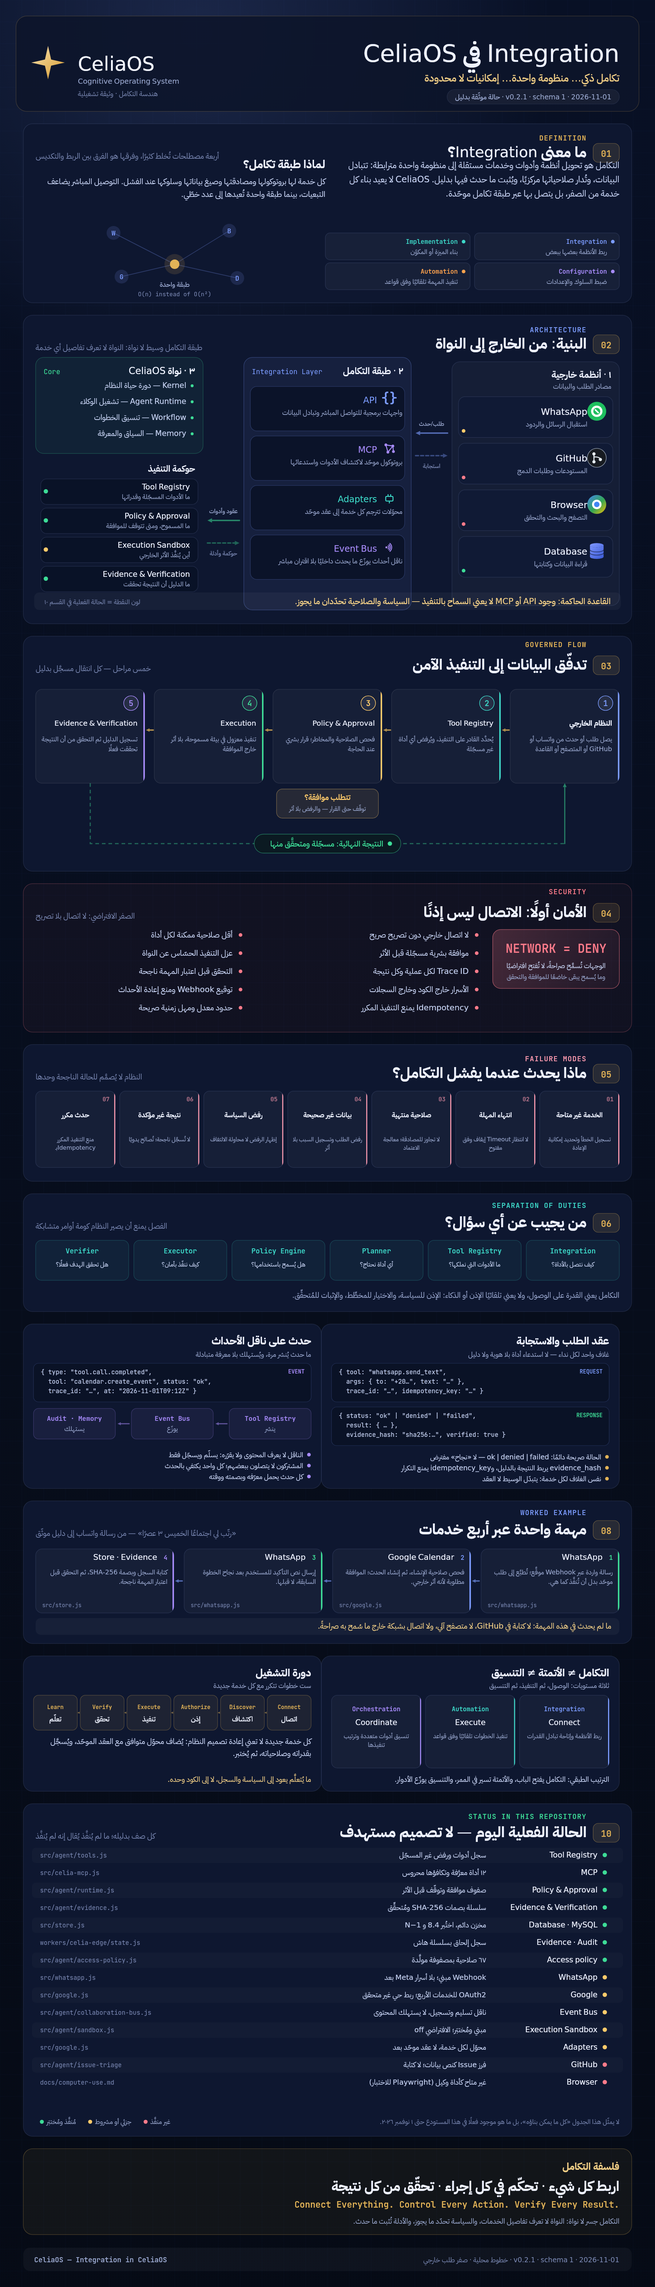
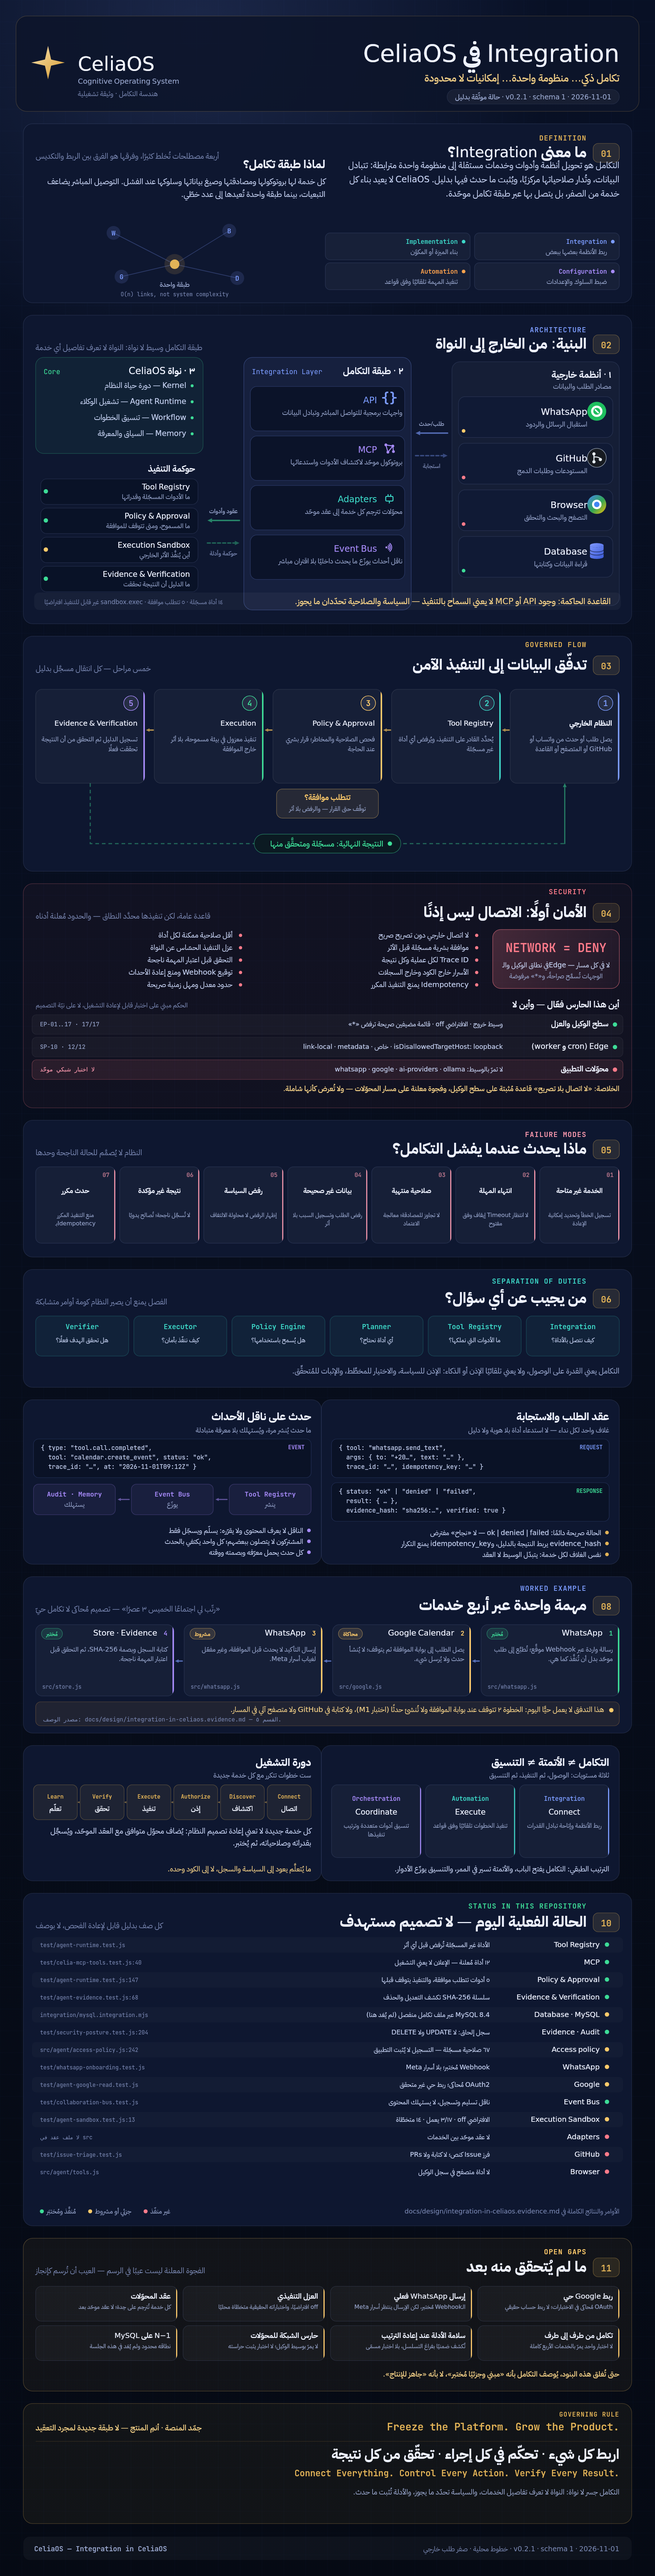
docs(design): تصحيح ادعاءات الإنفوجرافيك وإضافة سجل دليل قابل لإعادة الفحص
مراجعة المالك كشفت أن أرقامًا معروضة كانت تُقرأ كإثبات وهي ليست كذلك.
التصحيحات:

- أدوات الوكيل ١٤ لا ١٧ (createDefaultTools().list())، ومنها ٥ تتطلب موافقة.
- sandbox.exec مسجّل لكنه غير قابل للتنفيذ افتراضيًا، واختباراته الحقيقية ١٤ متخطّاة.
- ٦٧ صلاحية «مسجّلة» لا «مطبَّقة»؛ و١٢ أداة MCP «مُعلنة» لا «متصلة».
- مثال Calendar موسوم: الخطوة ٢ محاكاة تتوقف عند بوابة الموافقة ولا تُنشئ حدثًا.
- NETWORK=DENY صار جدول نطاق: مُثبت على الوكيل (EP-01..17) والـEdge (SP-10)،
  وفجوة معلنة على مسار محوّلات التطبيق.
- قسم جديد OPEN GAPS بثمانية بنود لم تُتحقق، وقاعدة الحكم:
  Freeze the Platform. Grow the Product.

- docs/design/integration-in-celiaos.evidence.md: جدول حالة كل صف بأمر إعادة
  الفحص ونتيجته، وتصحيحات على ادعاءات سابقة، وحدود السجل.

لا تغيير على v0.2.1 ولا صورة ولا سرّ. المولّد حتمي (md5 متطابق).

Changed region(s): [[0.0311, 0.0, 0.9644, 0.9981], [0.28, 0.0624, 0.4978, 0.1248], [0.0622, 0.0, 0.0933, 0.0312]]

diff --git a/docs/design/integration-in-celiaos.evidence.md b/docs/design/integration-in-celiaos.evidence.md
@@ -1,0 +1,120 @@
+# سجل دليل قابل لإعادة الفحص — Integration في CeliaOS
+
+**الملف المصوّر:** [`integration-in-celiaos.png`](integration-in-celiaos.png) · **المولّد:** [`scripts/render-integration-infographic.mjs`](../../scripts/render-integration-infographic.mjs)
+**التاريخ:** 2026-11-01 · **الإصدار المرجعي:** `0.2.1` — لم يُغيَّر شيء في الكود بهذا العمل.
+
+هذا السجل موجود لسبب واحد: كل رقم أو حالة في الإنفوجرافيك يجب أن يكون **قابلًا لإعادة الفحص** بأمر واحد.
+ما لا يمكن إثباته بالأمر يُسجَّل هنا صراحةً كـ«غير متحقق» ولا يُرسم كأنه حقيقة قائمة.
+
+---
+
+## 1 · كيف يُعاد الفحص
+
+```bash
+npm ci                                   # لازمة بعد أي بيئة جديدة
+node --test test/agent-evidence.test.js  # سلسلة الأدلة
+node --test test/agent-egress-proxy.test.js
+node --test test/agent-runtime.test.js
+node --test test/agent-harness.test.js
+node --test test/security-posture.test.js
+node --test test/celia-mcp-tools.test.js
+node --test test/access-policy.test.js
+node --test test/collaboration-bus.test.js
+node --test test/agent-bus-runtime.test.js
+node --test test/agent-google-read.test.js
+node --test test/issue-triage.test.js
+node --test test/whatsapp-onboarding.test.js
+node --test test/agent-sandbox.test.js
+node --test test/agent-sandbox-tool.test.js
+node --test test/agent-store.test.js
+```
+
+عدّاد الأدوات المسجّلة (لا يحتاج أي إعداد):
+
+```bash
+node -e "import('./src/agent/tools.js').then(m=>{const t=m.createDefaultTools({statusProvider:()=>({})});const l=t.list();console.log(l.length, l.filter(x=>x.requiresApproval).length, l.some(x=>/browser/i.test(x.name)), t.has('sandbox.exec')&&t.executable('sandbox.exec'));})"
+```
+
+العدّاد المتوقع: `14 5 false false` أي **١٤ أداة مسجّلة، ٥ منها تتطلب موافقة، لا أداة متصفح، و`sandbox.exec` غير قابل للتنفيذ افتراضيًا**.
+
+---
+
+## 2 · جدول الحالة (القسم ١٠ من الإنفوجرافيك) — دليل كل صف
+
+| الصف | الادعاء المعروض | الدليل القابل لإعادة الفحص | نتيجة التشغيل 2026-11-01 |
+|---|---|---|---|
+| Tool Registry | الأداة غير المسجّلة تُرفض قبل أي أثر | `test/agent-runtime.test.js` — اختبار «an unregistered tool fails the run without side effects» | 16/16 ✅ |
+| MCP | ١٢ أداة مُعلنة | `test/celia-mcp-tools.test.js:40` (`defaultTools.length === 12`) و`test/celia-mcp.test.js:140` | 2/2 ✅ |
+| Policy & Approval | التنفيذ يتوقف عند بوابة الموافقة | `test/agent-runtime.test.js:147` (الأثر الخارجي ⇒ `waiting_approval`، `recorder.calls = 0`) و`test/agent-harness.test.js:219` (REJECTED يمنع التنفيذ) | 16/16 و5/5 ✅ |
+| Evidence & Verification | كشف التعديل وكشف الحذف | `test/agent-evidence.test.js:68` (تعديل صف) و`:83` (حذف مدخل ⇒ فراغ تسلسل) | 6/6 ✅ |
+| Database · MySQL | MySQL 8.4 عبر ملف تكامل مستقل | `integration/mysql.integration.mjs` موثّق في `docs/agent-runtime.md:207`؛ التشغيل عبر `npm run test:mysql` | **لم يُعَد هنا** — يحتاج خادم MySQL 8.4 |
+| Evidence · Audit | سجل إلحاق بلا `UPDATE`/`DELETE` | `test/security-posture.test.js:204` (SP-11) + `test/edge-d1.test.js:132` | 12/12 ✅ |
+| Access policy | ٦٧ صلاحية **مسجّلة** | `src/agent/access-policy.js:242` (`GRANTS = GITHUB_GRANTS + PILLAR_GRANTS + SERVICE_GRANTS` = 19+37+11) | 17/17 ✅ للتسجيل |
+| WhatsApp | Webhook مُختبر بلا أسرار Meta | `test/whatsapp-onboarding.test.js` | 17/17 ✅ |
+| Google | OAuth2 مُحاكى، لا ربط حي | `test/agent-google-read.test.js` | 8/8 ✅ |
+| Event Bus | ناقل تسليم وتسجيل لا يستهلك المحتوى | `test/collaboration-bus.test.js` و`test/agent-bus-runtime.test.js` | 12/12 و12/12 ✅ |
+| Execution Sandbox | مبني، الافتراضي `off`، واختباراته الحقيقية مشروطة | `src/agent/index.js:584` + skip في `test/agent-sandbox.test.js:13` (`CELIA_SANDBOX_INTEGRATION=1`) | 3/17 (14 متخطّاة) ⚠ |
+| Adapters | لا عقد موحّد بين الخدمات | لا يوجد module عقد؛ لكل خدمة مسارها (`src/google.js`, `src/whatsapp.js`, `src/store.js`) | لا دليل — فجوة |
+| GitHub | فرز نصي فقط، لا كتابة ولا PRs | `test/issue-triage.test.js` | 35/35 ✅ |
+| Browser | لا أداة متصفح في سجل الوكيل | عدّاد الأدوات أعلاه ⇒ `browser: false` | ✅ |
+
+---
+
+## 3 · تصحيحات على ادعاءات سابقة
+
+| الادعاء السابق | الحالة الفعلية | المصدر |
+|---|---|---|
+| «١٧ أداة وكيل افتراضية» | **١٤** أداة مسجّلة افتراضيًا (`createDefaultTools().list()`)، منها ٥ تتطلب موافقة | تشغيل العدّاد أعلاه |
+| «`sandbox.exec` مبني ومُختبَر» | التسجيل موجود لكن `executable('sandbox.exec') === false` افتراضيًا؛ واختبارات العزل الحقيقية **١٤ متخطّاة** محليًا | `src/agent/index.js:584`, `test/agent-sandbox.test.js:13` |
+| «٦٧ صلاحية» كإثبات حوكمة | ٦٧ **مسجّلة**؛ التسجيل لا يُثبت التطبيق على كل مسار تنفيذ | `src/agent/access-policy.js:242` |
+| «١٢ أداة MCP» كإثبات تكامل | ١٢ **مُعلنة**؛ لا يعني أنها متصلة بخدمة حية أو مسموح بتشغيلها | `test/celia-mcp-tools.test.js:40` |
+| «N−1 مُختبر» | محدود بأدوات MCP وقراءة schema1، لا corpus كامل لكل عميل | `docs/compatibility-contract.md:20` |
+
+---
+
+## 4 · نطاق `NETWORK = DENY` — أين هو فعّال فعلًا
+
+الادعاء العام «لا اتصال خارجي دون تصريح» صحيح فقط ضمن الحدود التالية:
+
+| المسار | الحارس | الدليل | الحكم |
+|---|---|---|---|
+| سطح الوكيل والعزل | وسيط خروج `CELIA_AGENT_EGRESS`، الافتراضي `off`، وقائمة مضيفين صريحة ترفض `*` | `src/agent/index.js:289` + `test/agent-egress-proxy.test.js` (EP-01..17) | ✅ 17/17 — كل قفزة عبر الوسيط، والرفض قبل أي DNS |
+| Edge (cron/worker) | `isDisallowedTargetHost` يمنع loopback والخاص وlink-local والميتاداتا | `workers/celia-edge/cron.js:135` + `test/security-posture.test.js:174` (SP-10) | ✅ |
+| محوّلات التطبيق | لا تمرّ بوسيط الوكيل: `src/whatsapp.js` (fetch)، `src/google.js` (googleapis)، `src/ai-providers.js`، `src/ollama.js`، `src/secrets-hub.js`, `src/celia-mcp.js` | لا اختبار يثبت حراسة شبكية موحّدة لهذه المسارات | ⚠ **فجوة معلنة** |
+
+النتيجة: `NETWORK = DENY` **مُثبت لسطح الوكيل والـEdge**، و**غير مُثبت لمسار محوّلات التطبيق**.
+لذلك يُعرض في الإنفوجرافيك كجدول نطاق، لا كشعار مطلق.
+
+---
+
+## 5 · مثال «مهمة عبر أربع خدمات» — ما هو فعلًا
+
+| الخطوة | الحالة الحقيقية | الدليل |
+|---|---|---|
+| ١ · Webhook واتساب | مُختبر | `test/whatsapp-onboarding.test.js` 17/17 |
+| ٢ · إنشاء حدث Calendar | **محاكاة تتوقف عند بوابة الموافقة** — لا يُنشأ حدث | `test/agent-runtime.test.js:222` «a calendar request reaches the approval gate instead of creating an event» |
+| ٣ · تأكيد واتساب | لا يحدث قبل الموافقة | نفس الاختبار: لا `toolRun` ناجح |
+| ٤ · Store + Evidence | مُختبر | `test/agent-store.test.js` 6/6، `test/agent-evidence.test.js` 6/6 |
+
+لذلك يُوسم المثال في الإنفوجرافيك كـ«تصميم/محاكاة»، ولا يُقدَّم كتكامل حيّ من طرف إلى طرف.
+
+---
+
+## 6 · فجوات مفتوحة (لا تُرسم كإنجاز)
+
+1. ربط Google حي غير متحقق — OAuth مُحاكى فقط.
+2. إرسال WhatsApp فعلي غير مفعّل لغياب أسرار Meta.
+3. العزل التنفيذي `off` افتراضيًا، واختباراته الحقيقية مشروطة وغير مشغّلة في هذا الصندوق.
+4. لا عقد محوّلات موحّد؛ كل خدمة تُترجم على حِدة.
+5. لا اختبار تكامل واحد يمرّ بالخدمات الأربع من طرف إلى طرف.
+6. الحارس الشبكي لا يغطي محوّلات التطبيق (البند ٤ أعلاه).
+7. `N−1` محدود النطاق ولم يُعَد على MySQL في هذه الجلسة.
+8. سلامة سلسلة الأدلة مُثبتة للتعديل والحذف؛ **إعادة الترتيب** تُكشف ضمنيًا بفراغ التسلسل، لا باختبار مسمّى مستقل.
+
+---
+
+## 7 · حدود هذا السجل
+
+- الأرقام أعلاه مأخوذة من تشغيل محلي في 2026-11-01، لا من مزوّد CI.
+- «نجاح اختبار» ≠ «سلوك إنتاج مُتحقَّق»: الاختبارات تعمل على مخزن مؤقت ومحاكيات HTTP.
+- لا يُغيّر هذا العمل `v0.2.1` ولا صورة الحاوية ولا أي سرّ.
